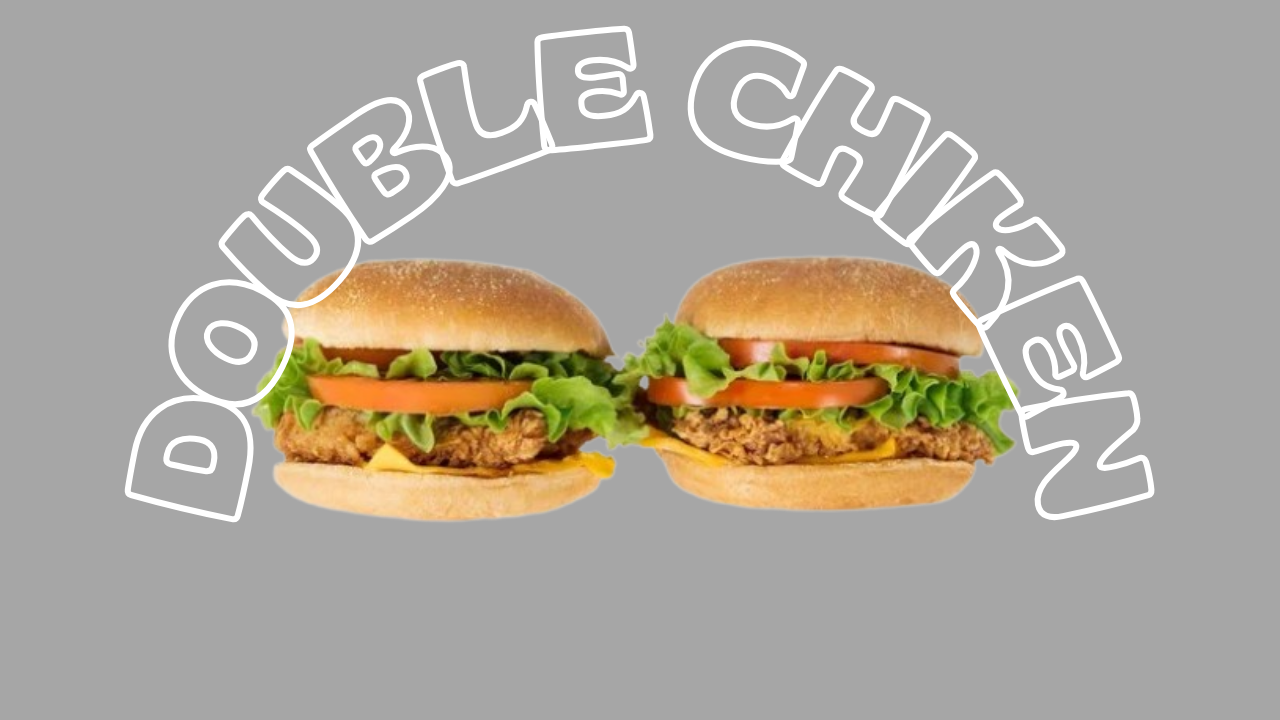
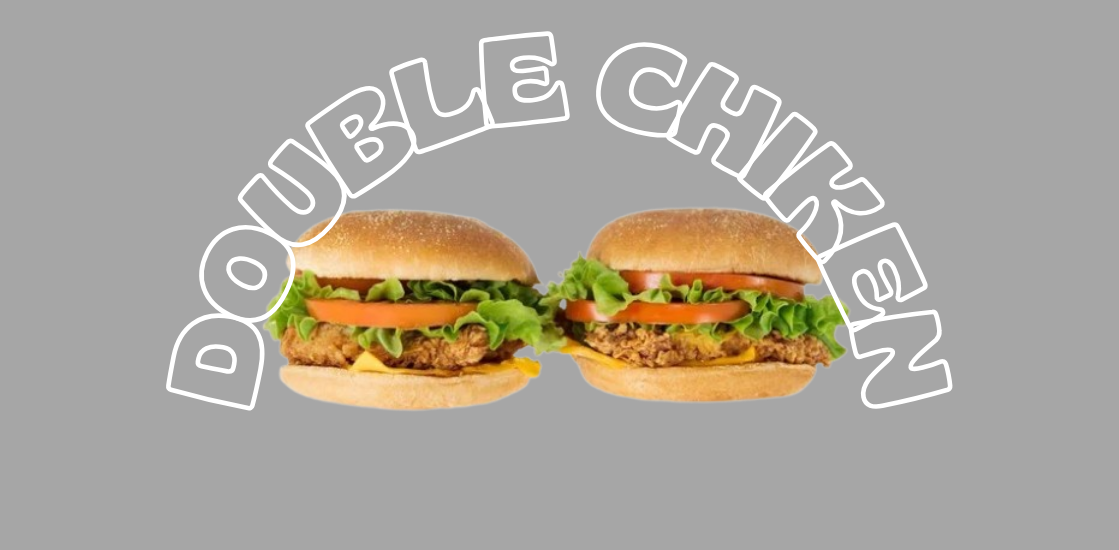
Alterado

Changed region(s): [[0.0912, 0.0309, 0.9115, 0.7727]]

diff --git a/Css/style.css b/Css/style.css
@@ -1,12 +1,12 @@
 @import url('https://fonts.googleapis.com/css2?family=Parkinsans:wght@300..800&family=Sigmar&display=swap');
 
 body{
-    width: 100vw;
+    width: 99vw;
     height: 100vh;
     margin: 0;
     background-color: var(--background-color);
     font-family: 'Parkinsans',sans-serif;
-    max-width: 100%;
+    
 }
 
 /* Header Guide */
@@ -31,7 +31,8 @@ body{
 .navegation{
     display: flex;
     position: absolute;
-    left: 400px;
+    left: 50%;
+    transform: translateX(-50%);
 }
 
 .navegation a{
@@ -110,20 +111,19 @@ body{
 
 .products_contents{
     width: 100%;
-    height: 90vh;
-    border: solid 2px;
+    height: auto;
+    border: solid 1px;
     border-radius: 10px;
     overflow: auto;
-    box-shadow: 0px 0px 20px 2px;
+    box-shadow: 0px 0px 30px 5px;
 }
 
-.products_contents span{
-    width: 200px;
-    height: 200px;
+.products_contents h1{
+    text-align: center;
 }
 
-.products_contents span img{
-    width: 300px;
+.products_contents img{
+    width: 100%;
 }
 
 /* Footer */
@@ -157,5 +157,4 @@ body{
     display: flex;
     justify-content: center;
     align-items: center;
-
 }

diff --git a/index.html b/index.html
@@ -48,17 +48,8 @@
                 </span>
             </div>
             <div class="products_contents">
-                <h1>Mais pedidos</h1>
                 <div class="all_products">
-                    <span>
-                        <a href=""><img src="/imgs/lanches/big_burger.png"></a>
-                    </span>
-                    <span>
-                        <a href=""><img src="/imgs/lanches/burger_fries.png"></a>
-                    </span>
-                    <span>
-                        <a href=""><img src="/imgs/lanches/chicken_burgues.png"></a>
-                    </span>
+                   <img src="/imgs/lanches_slide/doublechiken.png" alt="">
                 </div>
             </div>
         </div>
@@ -75,11 +66,7 @@
             </span>
         </span>
         <spaan class="direitos">
-<<<<<<< HEAD
           <p>Todos os direitos reservados</p>
-=======
-          
->>>>>>> 49c46c31c759d5df97c68096045ed02bc2d8f0d4
         </spaan>
         <span class="app">
             
